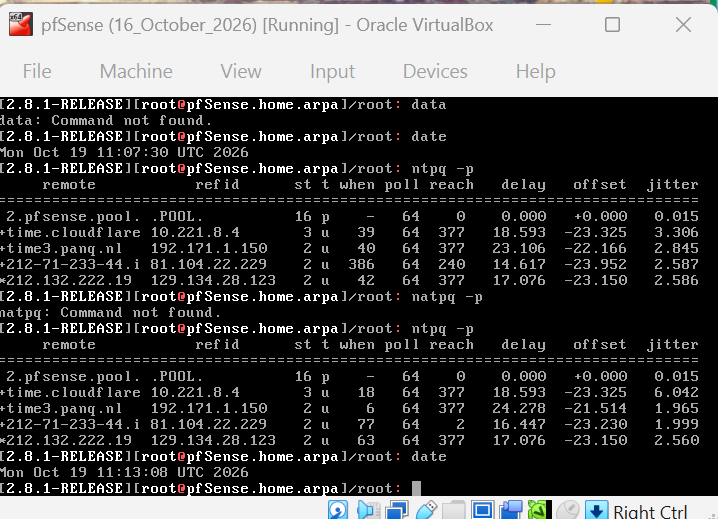
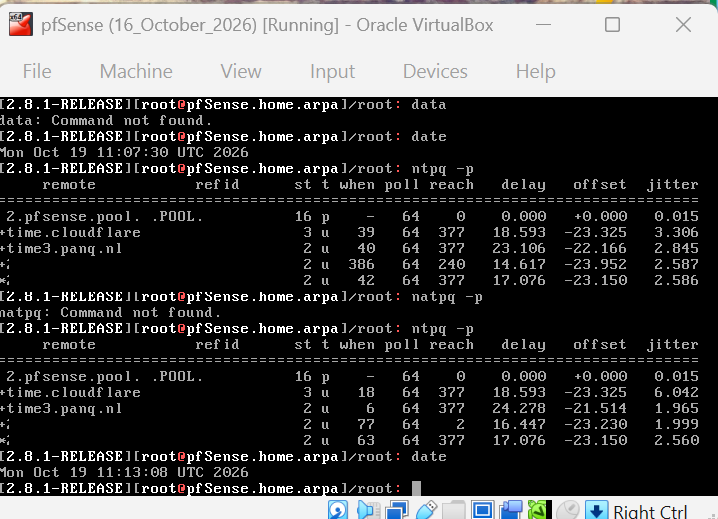
Mask public IPs in figure 6 and update note

Changed region(s): [[0.0, 0.7399, 0.3983, 0.8632], [0.0, 0.4316, 0.3983, 0.5549]]

diff --git a/docs/lab/timestamps-clock-problem.md b/docs/lab/timestamps-clock-problem.md
@@ -75,7 +75,7 @@ I measured before changing anything.
 - Splunk VM `timedatectl timesync-status`: offset +547 ms, jitter 478.5 ms, frequency +500 ppm.
 
 ![pfSense ntpq -p output showing upstream NTP servers and offsets](img/fig6-19oct-pfsense-ntpq.png){ loading=lazy }
-*Figure 6. 19 October: pfSense's upstream time servers and their offsets.*
+*Figure 6. 19 October: pfSense's upstream time servers and their offsets. I masked the refid column and the two servers listed by IP address.*
 
 ![Windows 11 w32tm output next to a Splunk search of event time against received time](img/fig7-19oct-win11-sync-and-lag-search.png){ loading=lazy }
 *Figure 7. 19 October: Win11 sync status and stripchart beside the early lag search.*
@@ -148,4 +148,4 @@ The maximums are still tens of seconds. I opened the biggest ones. The largest S
 - A clean cause for one symptom (big lag from the forwarder's startup) does not explain another (the stalls).
 - Do not call something fixed until it has been checked again.
 
-The screenshots above are cropped from my own lab consoles. Private lab addresses only; nothing here shows a public IP or a credential.
+The screenshots above are cropped from my own lab consoles. Only private lab addresses appear; I masked the public IPs of upstream time servers in Figure 6.
